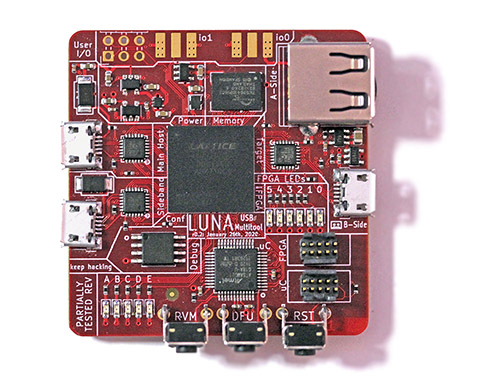
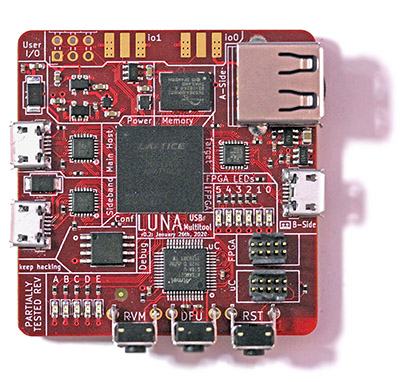
readme: switch to side-view image

diff --git a/README.md b/README.md
@@ -1,7 +1,7 @@
 
 # LUNA -- a USB-hacking multitool [![Build Status](https://travis-ci.org/greatscottgadgets/luna.svg?branch=master)](https://travis-ci.org/greatscottgadgets/luna) [![GitHub license](https://img.shields.io/github/license/greatscottgadgets/luna.svg)](https://github.com/greatscottgadgets/luna/blob/master/LICENSE.txt)
 
-![LUNA r0.2](docs/images/board_readme.jpg)
+![LUNA r0.2 side view](docs/images/board_readme_side.jpg)
 
 This is an early work-in-progress version of a USB multitool. LUNA isn't yet suited for end-users; but hardware development has reached a point where current-revision boards (r0.2+) make good development platforms for early community developers.
 
